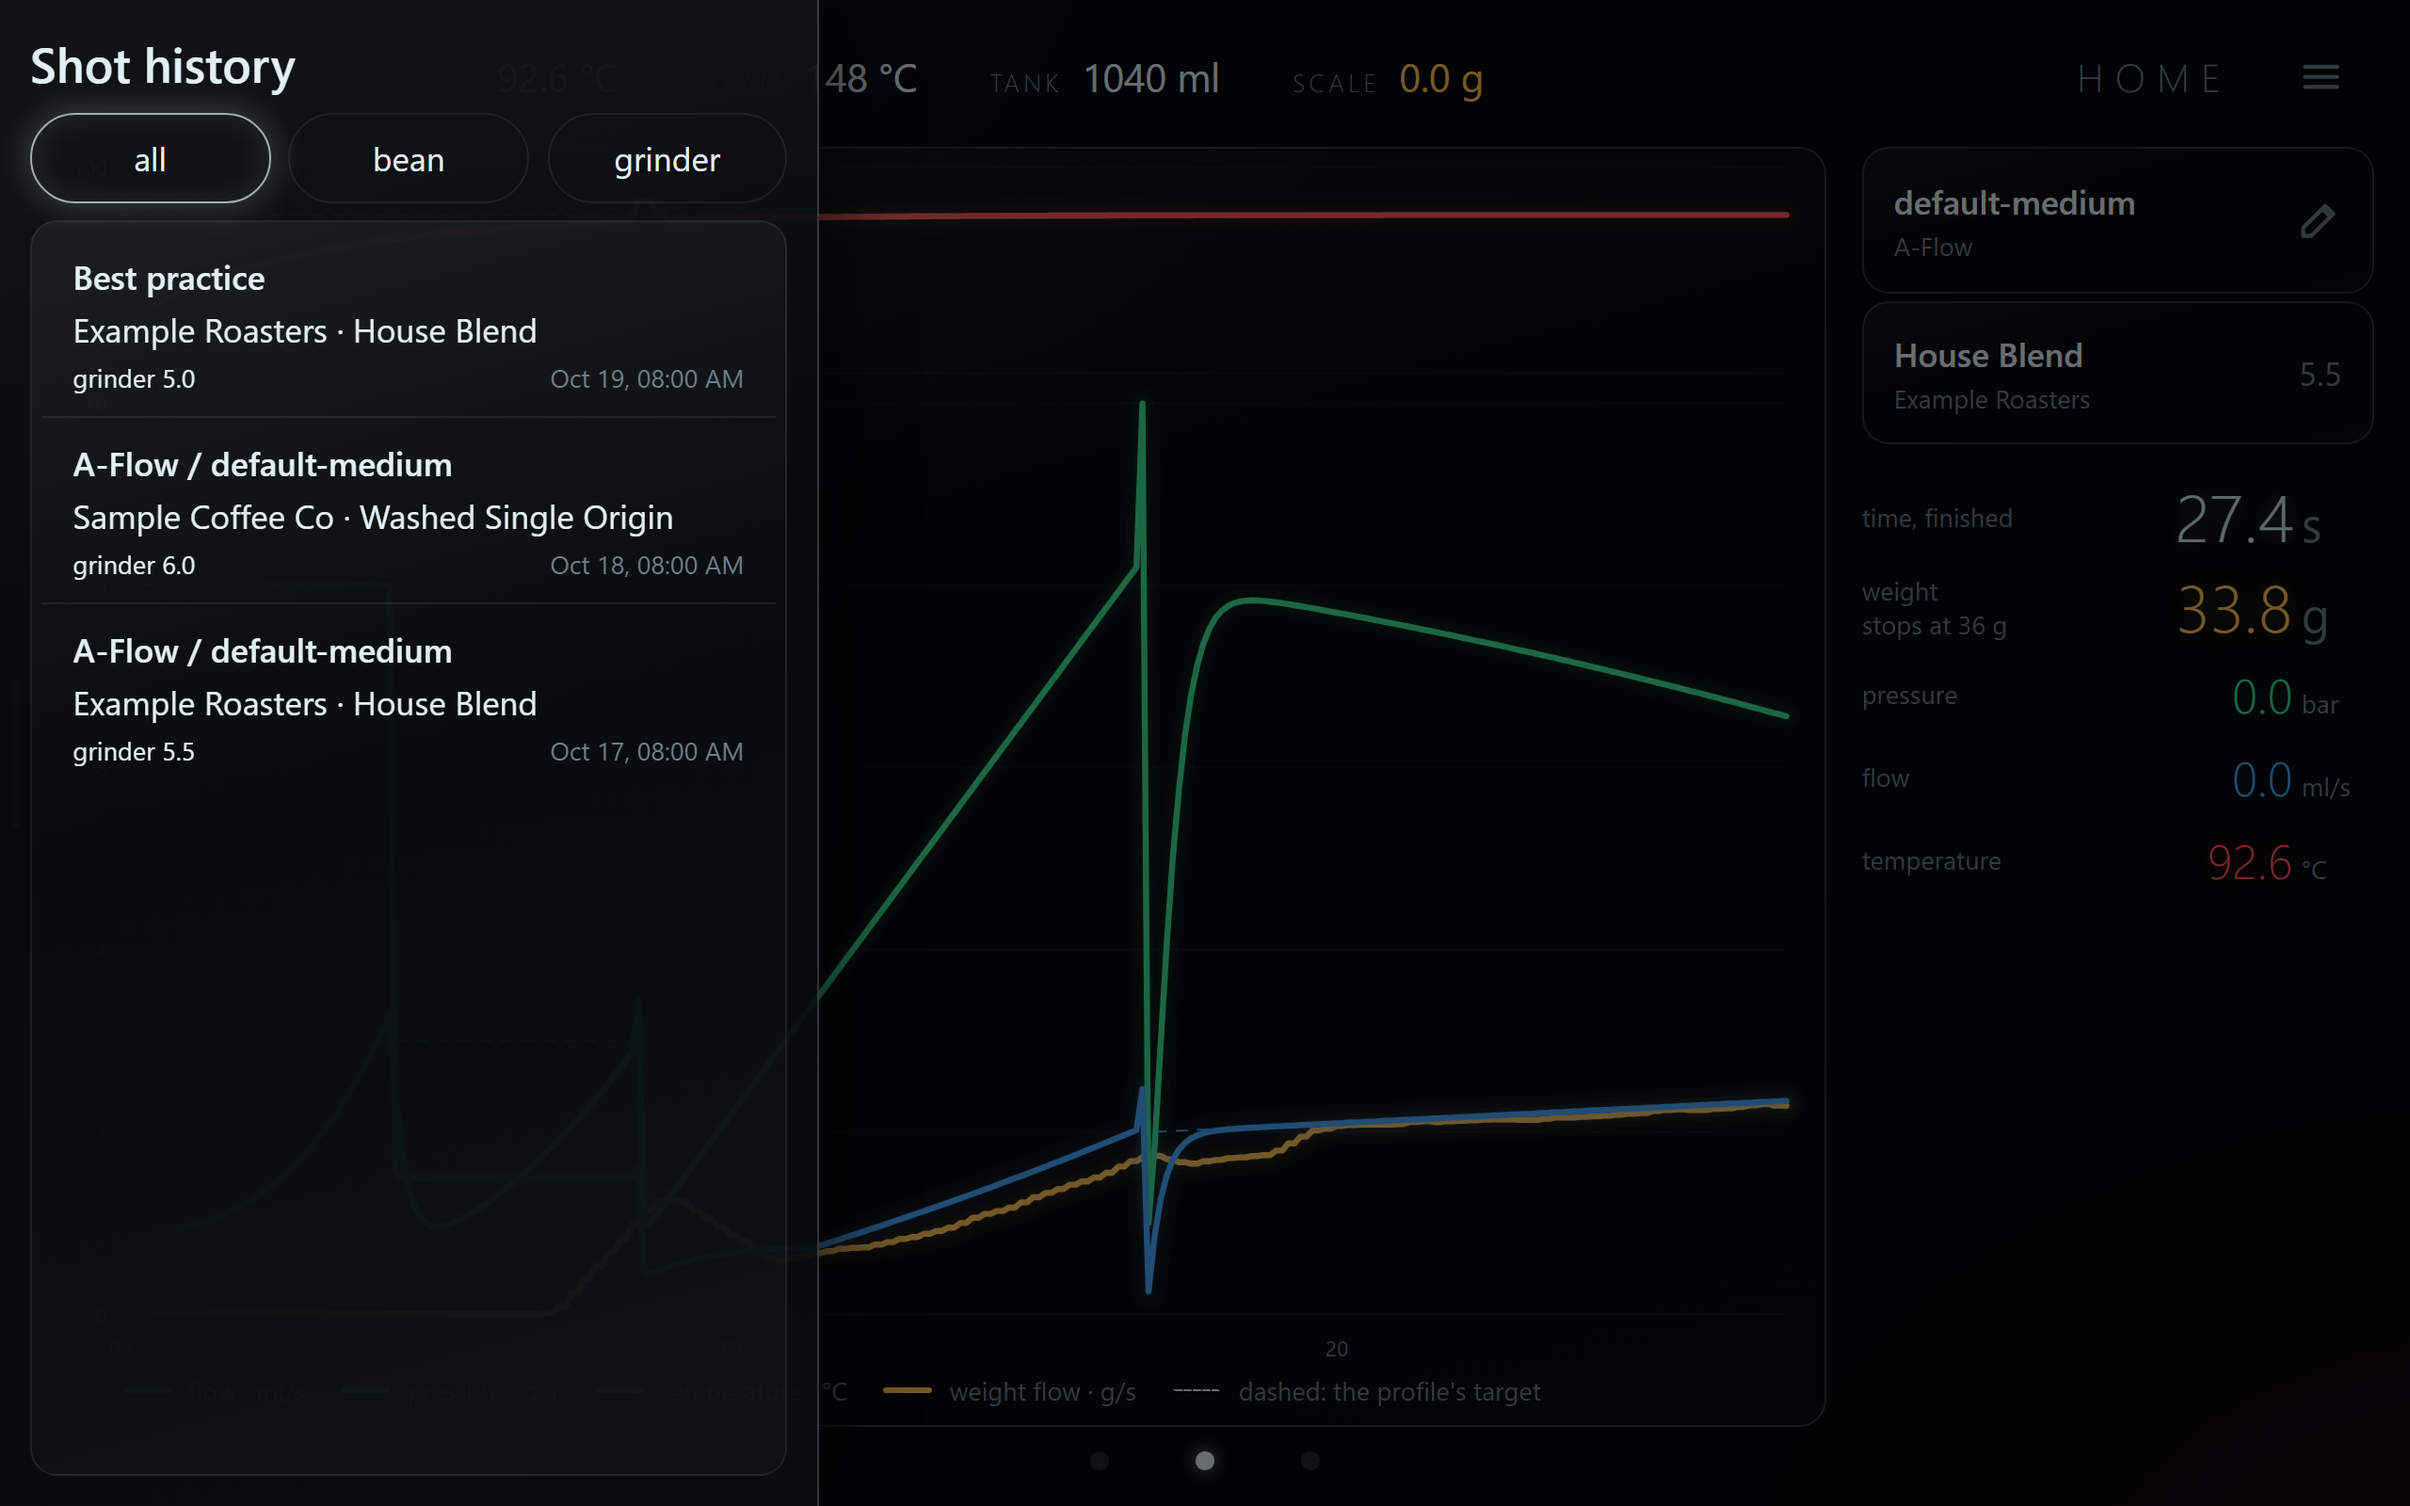
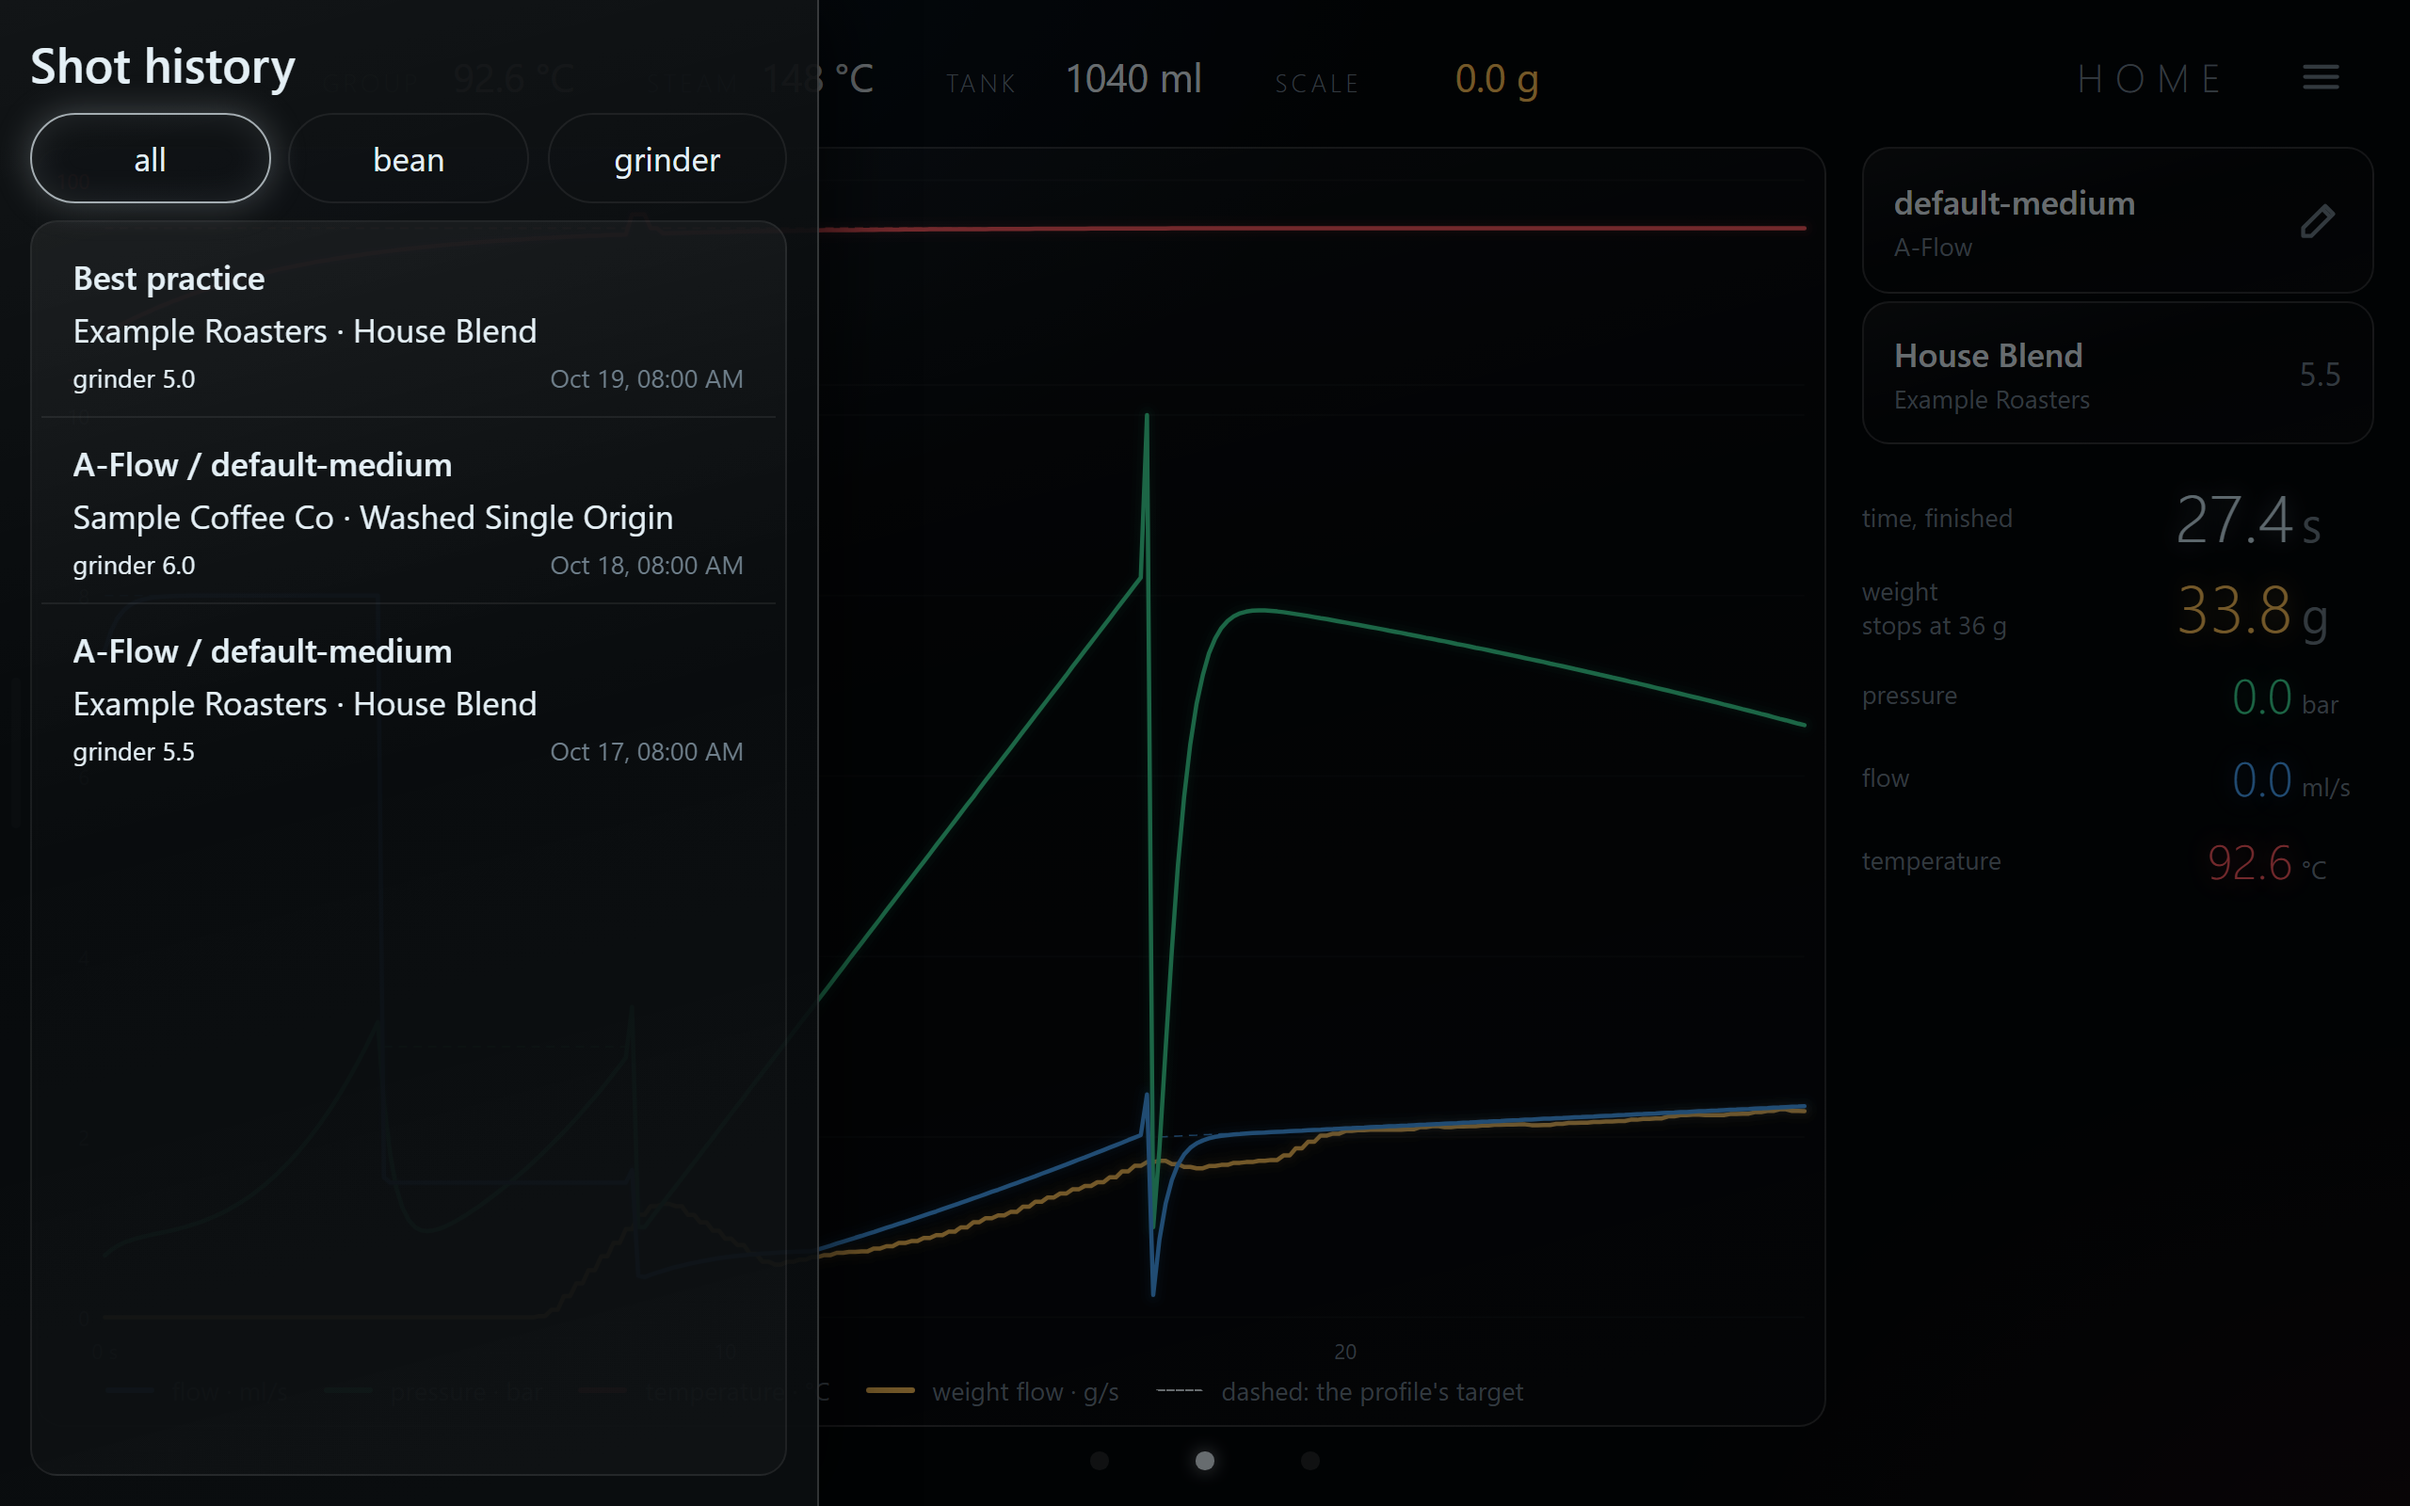
r61-docs-retake: the user guide shows the new header, graph frames and tank calibration
Retook the pictures of changed screens: home-idle, home-shot, swipe-row, editor, steam, history and bean-pick (settings-skin shows nothing changed and stays). Words: the header has a fixed place per reading and no step; the tank calibration starts with an empty tank and has show/hide table; the scale warning is the sign in its place with the sentence under it. No page about developer options exists, so none added. No rig run needed: only docs and pictures changed, no control, selector or text a rig spec drives.

Open for the founder: the 'Checked against pureflow 0.11.0' lines stay as they are.

Task: Z137
Changelog: internal

diff --git a/docs/user/guide.md b/docs/user/guide.md
@@ -17,7 +17,8 @@ It feels less natural there, but it works.
 
 - The three lines in the top right corner open the menu on all three pages: settings, beans and
   grinders, clean, steam on or off, the machine's sleep and wake. The page's name stands left of
-  them, the readings (group or steam, tank, scale) in the middle. The machine's state is a faint
+  them, the readings (group or steam, tank, scale) in the middle. Each reading has its own place
+  from the first frame, so none moves when another changes; without a machine each shows a dash. The machine's state is a faint
   light behind the header: red and breathing while it heats, blue while water or a shot runs, red
   and steady while it steams. The top left corner stays empty; only "Asleep" and "Off" (the steam
   heater) show there, dim. A fault (needs water, error, no machine, no connection) shows there in
@@ -40,7 +41,7 @@ right on a row goes back too, unless the row is open: then it closes the row.
 Start a shot at the machine. Home draws it live: blue is flow, green pressure, red temperature,
 yellow the weight. The legend under the graph names each curve with its unit, for example **flow · ml/s**;
 the setting **legend** under Settings > 6. Skin > Shot graph turns it off, and then the graph shows no unit.
-While it runs the header names the running step; the title **Home** is at the top right. The right column starts level with the graph's top edge and holds the
+The title **Home** is at the top right. The right column starts level with the graph's top edge and holds the
 time, the weight and the live values, each caption on the left and its number on the right; under
 **weight** it says where the shot stops. After the shot the column reads **time, finished** and
 keeps the shot until the next one starts. A line under the weight says why it stopped, as Decaid
@@ -162,7 +163,7 @@ The tank's level is measured in mm, and the skin turns it into ml with Decent's 
 look wrong for your tank, Settings > 1. Quick Adjustments > **Tank calibration** makes your own
 table:
 
-1. Set a refill kit to 'force off' first, then empty the tank. If the level looked low before,
+1. Start with an empty tank. Set a refill kit to 'force off' first, then empty it completely. If the level looked low before,
    lift the uptake assembly out of the water for 5 to 10 s and put it back.
 2. Keep the machine level. When **now** says 'steady', tap **next**: that is the empty tank.
 3. Pour 250 ml, slowly, weighed on a scale (1 g = 1 ml), wait for 'steady' and tap **next**.
@@ -171,7 +172,8 @@ table:
 4. From 1000 ml **done** saves the table; going on to the full tank is not needed. **start
    again** drops the steps; leaving the page keeps the table saved before.
 
-**using** says which table is in force; **back to decent's table** removes yours. The header,
+**using** says which table is in force; **show table** lists its rows (mm for each ml) and
+**hide table** closes the list; **back to decent's table** removes yours. The header,
 the water alert's note and the clean's check of 350 ml then follow your table. The machine still
 works in mm: the water alert and its refill warning do not change. The sensor reads to about a mm,
 which is about 30 ml, so expect no better than that. The table belongs to this tank: it is not in

diff --git a/docs/user/troubleshooting.md b/docs/user/troubleshooting.md
@@ -17,7 +17,8 @@ The top line says when something is missing.
 
 ## The scale
 
-Without a scale the top line reads **scale ⚠ not connected, tap to retry**. The skin looks for a
+Without a scale the scale's place in the top line reads **scale ⚠**, with the sentence
+**scale not connected, tap to retry** in small letters under it. The skin looks for a
 known scale by itself when it drops. A tap on the warning, or on **tare**, looks again. If that
 does not find it, wake the scale and connect it under **Settings > 2. Connections > 2. Scale**.
 
